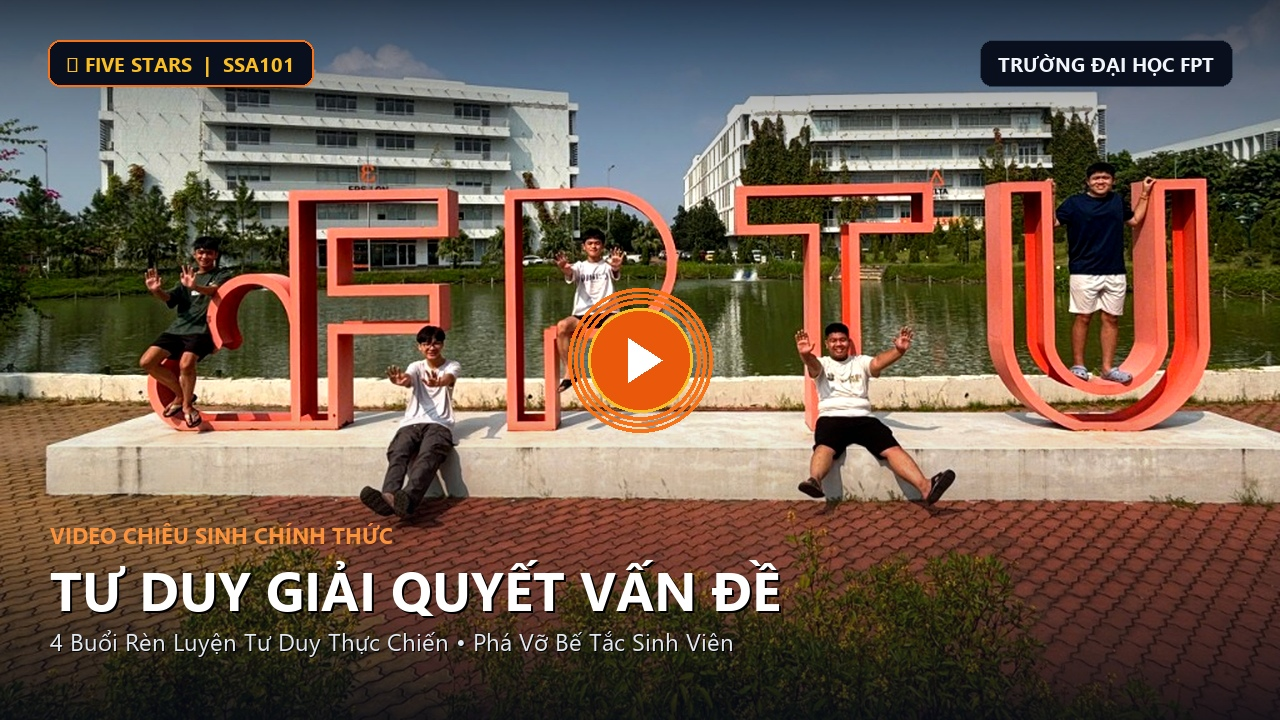
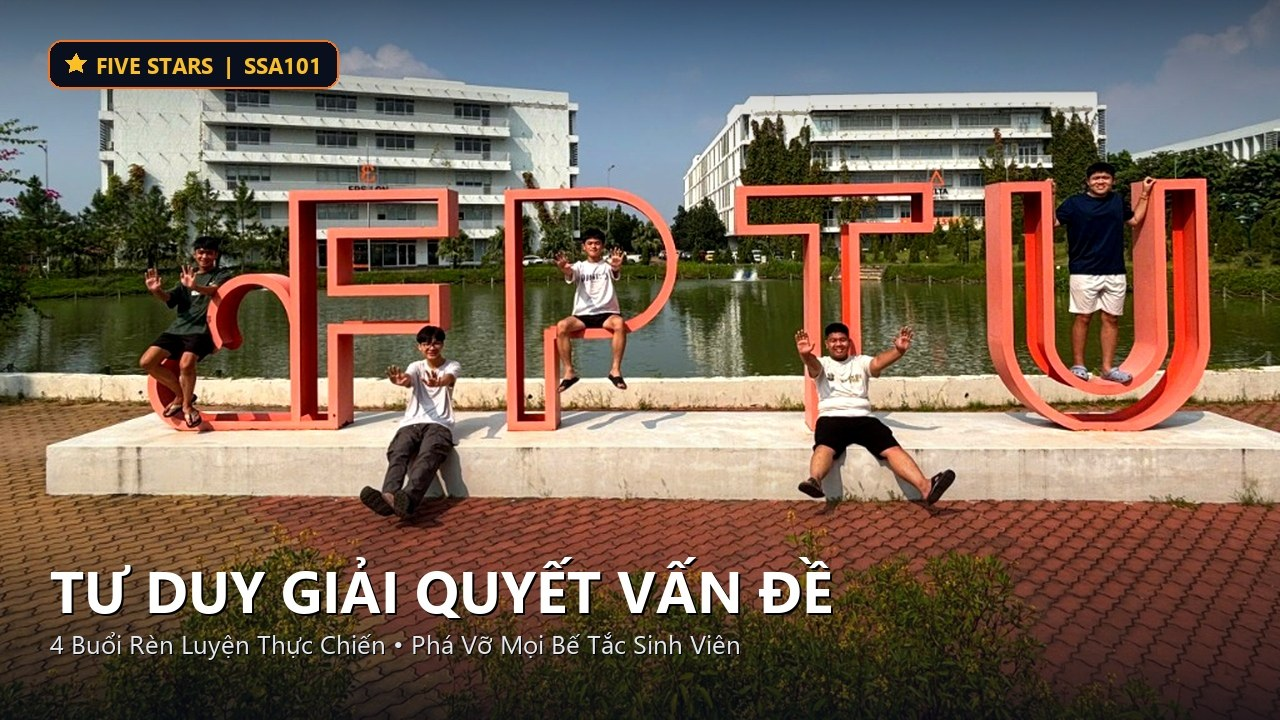
Add files via upload

Changed region(s): [[0.0, 0.0, 1.0, 0.2139], [0.0312, 0.7333, 0.6562, 0.9167], [0.4375, 0.3972, 0.5625, 0.6111]]

diff --git a/index.html b/index.html
@@ -240,25 +240,15 @@
                     <div class="relative w-full aspect-video rounded-xl overflow-hidden bg-slate-950 flex flex-col items-center justify-center text-center group cursor-pointer" id="video-display-area">
                         
                         <!-- Thumbnail Overlay (Bấm vào phát video ngay) -->
-                        <div id="video-thumbnail-layer" class="absolute inset-0 z-20 cursor-pointer overflow-hidden">
-                            <!-- Ảnh nền 16:9 chụp 5 thành viên nhóm tại FPTU -->
-                            <img src="video-cover.jpg" alt="Video Chiêu Sinh Five Stars SSA101" class="w-full h-full object-cover transition-transform duration-700 group-hover:scale-105">
+                        <div id="video-thumbnail-layer" class="absolute inset-0 z-20 cursor-pointer overflow-hidden group">
+                            <!-- Ảnh Thumbnail sắc nét chuẩn 16:9 (hiển thị trọn vẹn 5 thành viên, không bị co méo do video Shorts) -->
+                            <img id="video-thumb-img" 
+                                 src="video-thumbnail.jpg" 
+                                 alt="Video Chiêu Sinh Five Stars SSA101" 
+                                 class="w-full h-full object-cover transition-transform duration-700 group-hover:scale-105">
 
-                            <!-- Lớp phủ bóng mờ tương phản cao -->
-                            <div class="absolute inset-0 bg-gradient-to-t from-slate-950/90 via-slate-950/20 to-slate-950/60 pointer-events-none"></div>
-
-                            <!-- Top Header Badges -->
-                            <div class="absolute top-4 left-4 right-4 flex items-center justify-between pointer-events-none z-10">
-                                <!-- Badge Five Stars -->
-                                <div class="inline-flex items-center gap-1.5 px-3 py-1.5 rounded-xl bg-black/60 backdrop-blur-md border border-brand-orange/40 text-brand-amberLight text-xs font-bold shadow-lg">
-                                    <svg class="w-3.5 h-3.5 text-brand-amberLight fill-brand-amberLight" viewBox="0 0 24 24"><polygon points="12 2 15.09 8.26 22 9.27 17 14.14 18.18 21.02 12 17.77 5.82 21.02 7 14.14 2 9.27 8.91 8.26 12 2"></polygon></svg>
-                                    <span>FIVE STARS | SSA101</span>
-                                </div>
-                                <!-- Badge Trường ĐH FPT (ẩn góc trên mobile để tránh đè nút đổi video) -->
-                                <div class="hidden sm:inline-flex items-center px-3 py-1.5 rounded-xl bg-black/60 backdrop-blur-md border border-slate-700 text-slate-200 text-xs font-semibold shadow-lg mr-28">
-                                    TRƯỜNG ĐẠI HỌC FPT
-                                </div>
-                            </div>
+                            <!-- Lớp phủ bóng mờ tương phản cao khi hover -->
+                            <div class="absolute inset-0 bg-slate-950/20 group-hover:bg-slate-950/40 transition-colors duration-300 pointer-events-none"></div>
 
                             <!-- Center Animated Play Button (Luôn căn chính giữa hoàn hảo) -->
                             <div class="absolute inset-0 flex flex-col items-center justify-center pointer-events-none z-10">
@@ -270,39 +260,9 @@
                                         </svg>
                                     </div>
                                 </div>
-                                <span class="mt-3.5 px-4 py-1.5 rounded-full bg-black/70 backdrop-blur-md text-white text-xs sm:text-sm font-semibold border border-white/20 shadow-xl group-hover:border-brand-orangeLight/80 transition-colors">
+                                <span class="mt-3.5 px-4 py-1.5 rounded-full bg-black/75 backdrop-blur-md text-white text-xs sm:text-sm font-semibold border border-white/20 shadow-xl group-hover:border-brand-orangeLight/80 transition-colors">
                                     Nhấn để xem video chiêu sinh
                                 </span>
-                            </div>
-
-                            <!-- Bottom Titles -->
-                            <div class="absolute bottom-4 sm:bottom-6 left-4 sm:left-6 right-4 text-left pointer-events-none z-10">
-                                <div class="text-brand-orangeLight font-bold text-xs sm:text-sm uppercase tracking-wider mb-1">
-                                    Video Chiêu Sinh Chính Thức
-                                </div>
-                                <h3 class="text-lg sm:text-2xl lg:text-3xl font-extrabold text-white drop-shadow-md font-display">
-                                    Tư Duy Giải Quyết Vấn Đề
-                                </h3>
-                                <p class="text-slate-300 text-xs sm:text-sm mt-0.5 line-clamp-1 drop-shadow">
-                                    4 Buổi Rèn Luyện Thực Chiến • Phá Vỡ Mọi Bế Tắc Sinh Viên
-                                </p>
-                            </div>
-                        </div>
-
-                        <!-- Tool đổi link YouTube ở góc nhỏ trên video -->
-                        <button id="toggle-preview-btn" type="button" class="absolute z-30 top-3 right-3 px-3 py-1.5 rounded-lg bg-black/75 hover:bg-black/95 backdrop-blur-md text-[11px] font-medium text-slate-200 border border-white/20 transition-all flex items-center gap-1.5 shadow-lg">
-                            <svg class="w-3.5 h-3.5 text-brand-amberLight" fill="none" viewBox="0 0 24 24" stroke="currentColor"><path stroke-linecap="round" stroke-linejoin="round" stroke-width="2" d="M15.232 5.232l3.536 3.536m-2.036-5.036a2.5 2.5 0 113.536 3.536L6.5 21.036H3v-3.572L16.732 3.732z"/></svg>
-                            Đổi video khác
-                        </button>
-
-                        <!-- Mini URL Input bar -->
-                        <div id="youtube-input-box" class="hidden absolute z-40 inset-x-4 top-4 max-w-md mx-auto p-4 rounded-xl bg-slate-900/95 backdrop-blur-xl border border-slate-700 shadow-2xl">
-                            <label class="block text-left text-xs font-medium text-slate-300 mb-2">Dán link YouTube mới (hoặc Video ID):</label>
-                            <div class="flex gap-2">
-                                <input type="text" id="custom-youtube-url" placeholder="https://www.youtube.com/watch?v=..." class="flex-1 bg-slate-800 border border-slate-700 rounded-lg px-3 py-2 text-xs text-white placeholder-slate-500 focus:outline-none focus:border-brand-orange">
-                                <button id="apply-video-btn" type="button" class="px-4 py-2 rounded-lg bg-brand-orange hover:bg-brand-orangeDark text-xs font-semibold text-white whitespace-nowrap">
-                                    Cập nhật & Phát
-                                </button>
                             </div>
                         </div>
 
@@ -311,12 +271,10 @@
                     </div>
                 </div>
 
-                <div class="mt-4 flex flex-col sm:flex-row items-center justify-between text-xs px-2 gap-2">
-                    <a href="https://youtube.com/shorts/qTaOH1XSbiQ" target="_blank" rel="noopener noreferrer" class="text-slate-400 hover:text-white inline-flex items-center gap-1.5 transition-colors">
-                        <svg class="w-4 h-4 text-red-500 fill-red-500" viewBox="0 0 24 24"><path d="M19.615 3.184c-3.604-.246-11.631-.245-15.23 0-3.897.266-4.356 2.62-4.385 8.816.029 6.185.484 8.549 4.385 8.816 3.6.245 11.626.246 15.23 0 3.897-.266 4.356-2.62 4.385-8.816-.029-6.185-.484-8.549-4.385-8.816zm-10.615 12.816v-8l8 3.993-8 4.007z"/></svg>
-                        Xem trực tiếp trên YouTube ↗
+                <div class="mt-4 flex justify-end text-xs px-2">
+                    <a href="https://forms.gle/rmNN4VMm8QDY4aqs6" target="_blank" rel="noopener noreferrer" class="text-brand-orangeLight hover:underline font-semibold inline-flex items-center gap-1">
+                        Đăng ký tham gia ngay &rarr;
                     </a>
-                    <a href="https://forms.gle/rmNN4VMm8QDY4aqs6" target="_blank" rel="noopener noreferrer" class="text-brand-orangeLight hover:underline font-semibold whitespace-nowrap">Đăng ký tham gia ngay &rarr;</a>
                 </div>
             </div>
         </section>

diff --git a/script.js b/script.js
@@ -24,7 +24,7 @@ document.addEventListener('DOMContentLoaded', () => {
     }
 
     // 3. YouTube Video Embed / Lazy Load Player
-    let currentVideoId = 'qTaOH1XSbiQ';
+    let currentVideoId = 'xNAjUr6fPsg';
     const videoThumbnailLayer = document.getElementById('video-thumbnail-layer');
     const togglePreviewBtn = document.getElementById('toggle-preview-btn');
     const youtubeInputBox = document.getElementById('youtube-input-box');
@@ -81,6 +81,14 @@ document.addEventListener('DOMContentLoaded', () => {
             return false;
         }
         currentVideoId = videoId;
+        const thumbImg = document.getElementById('video-thumb-img');
+        if (thumbImg) {
+            thumbImg.src = `https://img.youtube.com/vi/${videoId}/maxresdefault.jpg`;
+        }
+        const directYtLink = document.getElementById('direct-youtube-link');
+        if (directYtLink) {
+            directYtLink.href = `https://youtube.com/shorts/${videoId}`;
+        }
         playVideo(currentVideoId);
         return true;
     };
@@ -105,10 +113,6 @@ document.addEventListener('DOMContentLoaded', () => {
         customYoutubeUrl.addEventListener('keypress', (e) => {
             if (e.key === 'Enter') {
                 e.stopPropagation();
-                applyVideoBtn.click();
-            }
-        });
-    }
                 applyVideoBtn.click();
             }
         });

diff --git a/README.md b/README.md
@@ -1,35 +1,128 @@
-# Website Dự Án "Tư Duy Giải Quyết Vấn Đề" - Nhóm Five Stars
+# 🌟 Dự Án "Tư Duy Giải Quyết Vấn Đề" - Nhóm Five Stars
+### Môn học: SSA101 – Learning Skills in Real Life | Trường Đại học FPT
 
-Trang web chính thức giới thiệu dự án môn học **SSA101 – Learning Skills in Real Life** của nhóm **Five Stars** (Trường Đại học FPT).
-
----
-
-## 👥 Nhóm Tác Giả (Five Stars ★★★★★)
-1. **Vũ Tiến Dũng** (MSSV: HE211181)
-2. **Nguyễn Phúc Ngọc Trúc** (MSSV: HE211342)
-3. **Nguyễn Văn Trường** (MSSV: HE211244)
-4. **Trần Lê Nhật Khánh** (MSSV: HE211523)
-5. **Nguyễn Quang Minh** (MSSV: HE211010)
+[![FPT University](https://img.shields.io/badge/FPT%20University-H%C3%B2a%20L%E1%BA%A1c%20Campus-F26F21?style=for-the-badge&logo=fpt&logoColor=white)](https://fpt.edu.vn)
+[![Course](https://img.shields.io/badge/Course-SSA101-0284c7?style=for-the-badge)](https://fpt.edu.vn)
+[![Team](https://img.shields.io/badge/Team-Five%20Stars%20★★★★★-f59e0b?style=for-the-badge)](https://github.com)
+[![License](https://img.shields.io/badge/Academic%20Project-2026-10b981?style=for-the-badge)](https://github.com)
 
 ---
 
-## 📐 Cấu Trúc Bố Cục Trang Web
-Trang web được sắp xếp đúng theo cấu trúc yêu cầu của đề án:
-1. **Đầu trang (Hero Header):**
-   * Câu chủ đề: *DỰ ÁN RÈN LUYỆN PHÁT TRIỂN TƯ DUY GIẢI QUYẾT VẤN ĐỀ*.
-   * Giới thiệu nhóm Five Stars & danh sách 5 thành viên.
-   * **2 Nút bấm hành động:** Nút "Đăng ký tham gia khóa học" và Nút "Video chiêu sinh".
-2. **Khu vực Video Chiêu Sinh:**
-   * Khung tỉ lệ chuẩn 16:9 với hiệu ứng chờ hiện đại.
-   * Công cụ tích hợp sẵn cho phép dán link YouTube để kiểm tra xem thử trực tiếp.
-3. **Bối Cảnh & Lý Do Chọn Đề Án:**
-   * Dữ liệu khảo sát thực tế trên 34 sinh viên Đại học FPT (biểu đồ trực quan sinh động).
-   * Căn cứ nghiên cứu từ World Economic Forum (2025).
-4. **Chi Tiết Kế Hoạch 4 Buổi Học:**
-   * **Bảng tổng hợp chi tiết:** Buổi, Tên chủ đề, Hình thức (2 Online - 2 Offline), Nội dung trọng tâm (5W1H, 5 Whys, Ishikawa, SIFT, AI có trách nhiệm, Design Thinking) và Sản phẩm đánh giá.
-5. **Mục Cam Kết (6 Cam Kết của nhóm Five Stars):**
-   * Nội dung học thuật, Trung thực khảo sát, Trách nhiệm triển khai, Môi trường học an toàn, Sử dụng AI có trách nhiệm, Cầu thị tiếp nhận góp ý.
-6. **Khu Vực Form Đăng Ký:**
-   * Nút bấm dẫn tới Google Form (sẵn sàng gắn link khi nhóm có link chính thức).
-7. **Danh Mục Tài Liệu Tham Khảo (9 nguồn trích dẫn):**
-   * Freeman et al. (PNAS 2014), WEF 2025, Mind Tools, Mike Caulfield SIFT, UNESCO 2024 AI Framework, IxDF, Khảo sát sinh viên FPTU 2026.
+## 📖 1. Giới Thiệu Dự Án
+
+Trang web chính thức của đề án môn học **SSA101 – Kỹ Năng Học Tập Trong Đời Sống Thực Tế** do nhóm tác giả **Five Stars** thực hiện tại **Trường Đại học FPT**.
+
+Đề án tập trung giải quyết bài toán cốt lõi của sinh viên hiện đại: **"Rèn luyện và phát triển kỹ năng tư duy giải quyết vấn đề"** – năng lực được *Diễn đàn Kinh tế Thế giới (WEF 2025)* xếp hạng là kỹ năng số 1 trong thị trường lao động tương lai.
+
+### 🎯 Mục tiêu đào tạo:
+* **Học tập chủ động (Active Learning):** Áp dụng nghiên cứu của *Freeman và cộng sự (PNAS, 2014)* – tối ưu thời lượng lý thuyết, dành 70% thời lượng cho việc giải quyết các tình huống thật của sinh viên.
+* **Hình thức triển khai:** 100% **Offline (45 – 60 phút/buổi)** tại campus FPT University.
+* **Bộ công cụ thực chiến:** Khung 5W1H, 5 Whys (Toyota), Sơ đồ xương cá (Ishikawa), Mô hình kiểm chứng thông tin SIFT, Khung năng lực AI có trách nhiệm (UNESCO 2024) và Design Thinking rút gọn.
+
+---
+
+## 👥 2. Đội Ngũ Tác Giả (Nhóm Five Stars)
+
+| STT | Họ và Tên | Mã Sinh Viên (MSSV) | Vai Trò & Phụ Trách | Chuyên Ngành |
+|:---:|:---|:---:|:---|:---|
+| **01** | **Vũ Tiến Dũng** | `HE211181` | Nghiên cứu học thuật & Biên tập Nội dung | Kỹ thuật Phần mềm (SE) |
+| **02** | **Nguyễn Phúc Ngọc Trúc** | `HE211342` | Thiết kế bài giảng & Biên tập Nội dung | Kỹ thuật Phần mềm (SE) |
+| **03** | **Nguyễn Văn Trường** | `HE211244` | Trực quan hóa dữ liệu & Thiết kế Slide | Kỹ thuật Phần mềm (SE) |
+| **04** | **Trần Lê Nhật Khánh** | `HE211523` | Xây dựng đồ họa & Thiết kế Slide | Kỹ thuật Phần mềm (SE) |
+| **05** | **Nguyễn Quang Minh** | `HE211010` | Điều phối dự án & Thiết kế Slide | Kỹ thuật Phần mềm (SE) |
+
+---
+
+## 📊 3. Bối Cảnh & Dữ Liệu Khảo Sát Thực Tế
+
+Đề án được xây dựng dựa trên dữ liệu sơ cấp thực tế do nhóm Five Stars trực tiếp khảo sát độc lập trên **34 sinh viên Trường Đại học FPT (2026)**:
+
+* 🔻 **23.5%** sinh viên gặp vấn đề lớn nhất về **Thiếu động lực học tập & trì hoãn**.
+* 🔻 **20.6%** sinh viên **Loay hoay tận dụng AI hiệu quả** (phụ thuộc thụ động, không biết kiểm chứng).
+* 🔻 **20.6%** sinh viên gặp áp lực và xung đột khi **Làm việc nhóm & phân chia trách nhiệm**.
+* 🔻 **17.6%** sinh viên gặp khủng hoảng về **Quản lý thời gian & cân bằng cuộc sống**.
+
+Nhóm Five Stars tập trung giải quyết 2 trọng tâm cấp bách: **(1) Phương pháp bóc tách nguyên nhân gốc rễ** và **(2) Khung kỹ năng làm chủ & kiểm chứng thông tin khi sử dụng AI**.
+
+---
+
+## 🗓 4. Khung Chương Trình Đào Tạo 4 Buổi Học
+
+| Buổi | Tên Chủ Đề & Định Vị | Hình Thức | Nội Dung Trọng Tâm Thực Chiến |
+|:---:|:---|:---:|:---|
+| **01** | **Nhận diện bài toán**<br>*(Vấn đề không phải kẻ thù)* | `Offline (45 - 60p)` | Phân biệt vấn đề – triệu chứng – nguyên nhân qua khung **5W1H**; tránh bẫy tư duy thường gặp và phát biểu chính xác bài toán thực tế. |
+| **02** | **Truy tìm gốc rễ**<br>*(Đào tận gốc)* | `Offline (45 - 60p)` | Kỹ thuật **5 Whys** & **Sơ đồ xương cá (Ishikawa)** theo 4 nhánh (Bản thân - Phương pháp - Môi trường - Công cụ); bóc tách nguyên nhân cốt lõi khách quan, tránh đổ lỗi. |
+| **03** | **Xác minh & Sử dụng AI**<br>*(Lọc trước khi tin)* | `Offline (45 - 60p)` | Quy trình **SIFT** kiểm chứng thông tin đa chiều dưới 3 phút; nguyên tắc ứng dụng **AI có trách nhiệm** trong học tập (UNESCO 2024). |
+| **04** | **Thử nghiệm & Demo Day**<br>*(Từ ý tưởng đến giải pháp)* | `Offline (45 - 60p)` | **Design Thinking** rút gọn & ma trận **Tác động × Khả thi**; hoàn thiện kế hoạch hành động và thuyết trình Demo Day 90 giây. |
+
+---
+
+## 🤝 5. Sáu Cam Kết Học Thuật Của Nhóm Five Stars
+
+1. **Nội dung học thuật chuẩn mực:** 100% dựa trên tài liệu nghiên cứu khoa học có thật, trích dẫn chuẩn mực, không dùng số liệu bịa đặt.
+2. **Trung thực trong dữ liệu khảo sát:** Dữ liệu thật từ 34 sinh viên ĐH FPT, tuyệt đối không chỉnh sửa số liệu; ẩn danh người tham gia 100%.
+3. **Trách nhiệm triển khai thực tế:** Phân công minh bạch, từng buổi học chuẩn bị trước tối thiểu 3 ngày, rà soát chu đáo giáo án và không gian lớp học Offline.
+4. **Môi trường học an toàn & tôn trọng:** Lắng nghe mọi góc nhìn, không phán xét, bảo mật các câu chuyện cá nhân của người học.
+5. **Ứng dụng AI có trách nhiệm:** AI đóng vai trò trợ thủ gợi ý, toàn bộ thông tin đưa vào đề án đều được đối chiếu từ nguồn gốc theo tiêu chuẩn UNESCO 2024.
+6. **Cầu thị & tiếp nhận góp ý:** Luôn chủ động lắng nghe phản hồi từ giảng viên bộ môn SSA cùng sinh viên để liên tục cải tiến chất lượng khóa học.
+
+---
+
+## 💻 6. Cấu Trúc Mã Nguồn & Công Nghệ
+
+Website được phát triển theo tiêu chuẩn web hiện đại, tối ưu tốc độ tải trang cực nhanh và tương thích hoàn hảo trên mọi thiết bị:
+
+```text
+ssa-course-website/
+├── index.html                # Cấu trúc nội dung toàn diện & semantic HTML5
+├── style.css                 # Tùy biến thanh cuộn, hiệu ứng trôi sao, phông chữ
+├── script.js                 # Bộ xử lý Canvas sao băng 60fps, nhúng video YouTube
+├── video-thumbnail.jpg       # Ảnh Thumbnail 16:9 sắc nét cho video chiêu sinh (đã nén tối ưu)
+├── registration-bg.png       # Họa tiết sao mờ đêm nguyên bản cho khu vực đăng ký
+├── registration-stars-alpha.png # Lớp phủ sao đêm trong suốt đa tầng
+├── stars-pattern.png         # Họa tiết sao lấp lánh cho toàn trang web
+└── README.md                 # Tài liệu thuyết minh đề án học thuật chính thức
+```
+
+### 🛠 Công nghệ sử dụng:
+* **HTML5 Semantic & Tailwind CSS:** Bố cục hiện đại, phối màu Dark Obsidian kết hợp FPT Orange/Amber.
+* **HTML5 Canvas Animation Engine (60fps):** Mô phỏng bầu trời sao lấp lánh trôi bồng bềnh và các vệt sao băng vàng rơi ngẫu nhiên.
+* **YouTube Lazy Load Player:** Nhúng video tối ưu, tự động phát mượt mà khi người dùng nhấn vào Thumbnail.
+
+---
+
+## 🚀 7. Hướng Dẫn Chạy Dự Án
+
+### Mở trực tiếp trên máy cục bộ (Local):
+Chạy lệnh khởi tạo server nội bộ bằng Python:
+```bash
+cd ssa-course-website
+python -m http.server 8000
+```
+Sau đó truy cập trình duyệt tại: **`http://localhost:8000`**
+
+### Triển khai trực tuyến (Deployment):
+Dự án sẵn sàng deploy 1-click lên các nền tảng:
+* **Vercel:** Kết nối với GitHub repository và nhấn `Deploy`.
+* **Netlify Drop:** Kéo thả thư mục `ssa-course-website` vào [app.netlify.com/drop](https://app.netlify.com/drop).
+* **GitHub Pages:** Bật tính năng Pages trong mục `Settings > Pages > Branch: main`.
+
+---
+
+## 📚 8. Danh Mục Tài Liệu Tham Khảo (APA 7th Edition)
+
+1. **Freeman, S., Eddy, S. L., McDonough, M., Smith, M. K., Okoroafor, N., Jordt, H., & Wenderoth, M. P. (2014).** Active learning increases student performance in science, engineering, and mathematics. *Proceedings of the National Academy of Sciences (PNAS)*, 111(23), 8410–8415. [https://doi.org/10.1073/pnas.1319030111](https://www.pnas.org/doi/10.1073/pnas.1319030111)
+2. **World Economic Forum. (2025).** *The Future of Jobs Report 2025*. Geneva: World Economic Forum. [https://www.weforum.org/publications/the-future-of-jobs-report-2025/](https://www.weforum.org/publications/the-future-of-jobs-report-2025/)
+3. **Mind Tools. (2025).** *5 Whys: Getting to the Root of a Problem Quickly*. [https://www.mindtools.com/a3mi00v/5-whys/](https://www.mindtools.com/a3mi00v/5-whys/)
+4. **Mind Tools. (2025).** *Root Cause Analysis: Tracing a Problem to Its Origins*. [https://www.mindtools.com/ag6pkn9/root-cause-analysis/](https://www.mindtools.com/ag6pkn9/root-cause-analysis/)
+5. **Caulfield, M. (2019).** *SIFT (The Four Moves)*. Hapgood. [https://hapgood.us/2019/06/19/sift-the-four-moves/](https://hapgood.us/2019/06/19/sift-the-four-moves/)
+6. **Open Oregon Educational Resources.** *The SIFT Method – Introduction to Finding Information*. [https://openoregon.pressbooks.pub/findinginfo/chapter/four-moves/](https://openoregon.pressbooks.pub/findinginfo/chapter/four-moves/)
+7. **UNESCO. (2024).** *AI Competency Framework for Students*. Paris: UNESCO. ISBN 978-92-3-100709-5. [https://doi.org/10.54675/JKJB9835](https://doi.org/10.54675/JKJB9835)
+8. **Interaction Design Foundation (IxDF).** *The 5 Stages in the Design Thinking Process*. [https://www.interaction-design.org/literature/article/5-stages-in-the-design-thinking-process](https://www.interaction-design.org/literature/article/5-stages-in-the-design-thinking-process)
+9. **Khảo sát nội bộ nhóm Five Stars. (2026).** *"Những khó khăn trong học tập và phát triển bản thân"* – khảo sát thực tế trên 34 sinh viên Trường Đại học FPT. *(Dữ liệu sơ cấp do nhóm trực tiếp thu thập).*
+
+---
+
+<p align="center">
+  <b>© 2026 Five Stars Project — SSA101 Trường Đại học FPT. All rights reserved.</b>
+</p>
